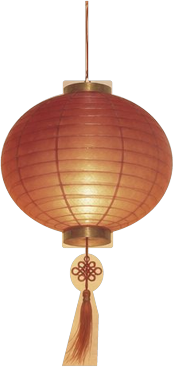
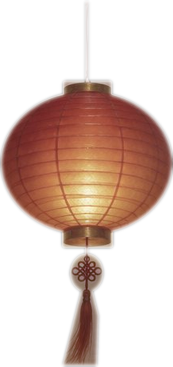
Lanterns blend into the scene; opening lantern dissolves in grain
- Lantern layer: feathered edges and a night-toned rim so only its lit
  heart stays warm (make_night.py); a soft bloom around the opening
  lantern.
- The opening lantern flares toward white, then breaks apart into
  grain with the sheet instead of fading as a cutout.

Claude-Session: https://claude.ai/code/session_01VMC75dovcyg8xHeWok5tKD

Changed region(s): [[0.0, 0.0, 1.0, 1.0]]

diff --git a/index.html b/index.html
@@ -150,7 +150,7 @@ form.signup { display: flex; width: min(460px, 100%); padding: 0; gap: 0; backgr
 .portal-paper.gl { background: transparent; }
 .portal-art { position: absolute; inset: 0; will-change: opacity; }
 .portal-lantern { position: absolute; left: 50%; top: 50%; width: calc(var(--fw, 340px) * .5); translate: -50% -46%; will-change: transform, opacity; }
-.portal-lantern .lamp { position: relative; display: block; width: 100%; height: auto; transform-origin: 50% 0; animation: sway 4s ease-in-out infinite alternate; }
+.portal-lantern .lamp { position: relative; display: block; width: 100%; height: auto; transform-origin: 50% 0; animation: sway 4s ease-in-out infinite alternate; filter: drop-shadow(0 0 14px rgba(255, 176, 96, .55)) drop-shadow(0 0 46px rgba(255, 140, 60, .3)); }
 .portal-lantern .glow { position: absolute; left: 50%; top: 44%; width: 340%; height: auto; max-width: none; translate: -50% -50%; opacity: .85; will-change: opacity, transform; }
 @keyframes sway { from { transform: rotate(-2.5deg); } to { transform: rotate(2.5deg); } }
 .portal-text { position: absolute; inset: 0; will-change: opacity; }
@@ -385,6 +385,14 @@ input:focus, textarea:focus { outline: none; border-color: var(--ink); }
       <div class="portal-globe"><svg viewBox="0 0 100 100" style="animation-delay: -0s"><ellipse cx="50" cy="50" rx="49.9" ry="49.9"></ellipse></svg><svg viewBox="0 0 100 100" style="animation-delay: -4s"><ellipse cx="50" cy="50" rx="49.9" ry="49.9"></ellipse></svg><svg viewBox="0 0 100 100" style="animation-delay: -8s"><ellipse cx="50" cy="50" rx="49.9" ry="49.9"></ellipse></svg><svg viewBox="0 0 100 100" style="animation-delay: -12s"><ellipse cx="50" cy="50" rx="49.9" ry="49.9"></ellipse></svg><svg viewBox="0 0 100 100" style="animation-delay: -16s"><ellipse cx="50" cy="50" rx="49.9" ry="49.9"></ellipse></svg><svg viewBox="0 0 100 100" style="animation-delay: -20s"><ellipse cx="50" cy="50" rx="49.9" ry="49.9"></ellipse></svg></div>
       <svg class="portal-rays" viewBox="0 0 100 100"><line x1="50" y1="0" x2="50" y2="9" transform="rotate(0 50 50)"></line><line x1="50" y1="0" x2="50" y2="9" transform="rotate(15 50 50)"></line><line x1="50" y1="0" x2="50" y2="9" transform="rotate(30 50 50)"></line><line x1="50" y1="0" x2="50" y2="9" transform="rotate(45 50 50)"></line><line x1="50" y1="0" x2="50" y2="9" transform="rotate(60 50 50)"></line><line x1="50" y1="0" x2="50" y2="9" transform="rotate(75 50 50)"></line><line x1="50" y1="0" x2="50" y2="9" transform="rotate(90 50 50)"></line><line x1="50" y1="0" x2="50" y2="9" transform="rotate(105 50 50)"></line><line x1="50" y1="0" x2="50" y2="9" transform="rotate(120 50 50)"></line><line x1="50" y1="0" x2="50" y2="9" transform="rotate(135 50 50)"></line><line x1="50" y1="0" x2="50" y2="9" transform="rotate(150 50 50)"></line><line x1="50" y1="0" x2="50" y2="9" transform="rotate(165 50 50)"></line><line x1="50" y1="0" x2="50" y2="9" transform="rotate(180 50 50)"></line><line x1="50" y1="0" x2="50" y2="9" transform="rotate(195 50 50)"></line><line x1="50" y1="0" x2="50" y2="9" transform="rotate(210 50 50)"></line><line x1="50" y1="0" x2="50" y2="9" transform="rotate(225 50 50)"></line><line x1="50" y1="0" x2="50" y2="9" transform="rotate(240 50 50)"></line><line x1="50" y1="0" x2="50" y2="9" transform="rotate(255 50 50)"></line><line x1="50" y1="0" x2="50" y2="9" transform="rotate(270 50 50)"></line><line x1="50" y1="0" x2="50" y2="9" transform="rotate(285 50 50)"></line><line x1="50" y1="0" x2="50" y2="9" transform="rotate(300 50 50)"></line><line x1="50" y1="0" x2="50" y2="9" transform="rotate(315 50 50)"></line><line x1="50" y1="0" x2="50" y2="9" transform="rotate(330 50 50)"></line><line x1="50" y1="0" x2="50" y2="9" transform="rotate(345 50 50)"></line></svg>
       </div>
+      <svg width="0" height="0" style="position:absolute">
+        <filter id="lantern-grain" x="-60%" y="-60%" width="220%" height="220%" color-interpolation-filters="sRGB">
+          <feTurbulence type="fractalNoise" baseFrequency="1.4" numOctaves="1" seed="7" result="noise"></feTurbulence>
+          <feColorMatrix in="noise" type="matrix" values="0 0 0 0 0  0 0 0 0 0  0 0 0 0 0  1 0 0 0 0" result="grain"></feColorMatrix>
+          <feComponentTransfer in="grain" result="mask"><feFuncA id="lantern-grain-a" type="linear" slope="30" intercept="1"></feFuncA></feComponentTransfer>
+          <feComposite in="SourceGraphic" in2="mask" operator="in"></feComposite>
+        </filter>
+      </svg>
       <div class="portal-lantern"><img class="glow" src="assets/motion/glow.webp" alt=""><img class="lamp" src="assets/motion/lantern.webp" alt=""></div>
       <div class="portal-text">
         <div class="portal-top wrap"><b>LANTERN</b><a href="#connect" tabindex="-1">Contact</a></div>
@@ -438,7 +446,7 @@ input:focus, textarea:focus { outline: none; border-color: var(--ink); }
     var stage = hero.parentElement, portal = hero.querySelector(".portal");
     var paper = hero.querySelector(".portal-paper"), art = hero.querySelector(".portal-art");
     var words = hero.querySelector(".portal-text"), lantern = hero.querySelector(".portal-lantern"), glow = lantern.querySelector(".glow"), lamp = lantern.querySelector(".lamp");
-    var root = document.documentElement;
+    var root = document.documentElement, grainA = document.getElementById("lantern-grain-a");
     stage.classList.add("portal-on");
     window.LANTERN_LIGHT = 0; // the landing's lantern lights as the sheet dissolves
     var burn = makeBurn(paper);
@@ -462,8 +470,12 @@ input:focus, textarea:focus { outline: none; border-color: var(--ink); }
       // the lantern flares as the dissolve takes hold, then melts into the scene
       var flare = Math.sin(Math.PI * clamp(b / 0.45));
       lantern.style.transform = "scale(" + (1 + 0.35 * clamp(b / 0.3)) + ")";
-      lantern.style.opacity = 1 - clamp((b - 0.14) / 0.22);
-      lamp.style.filter = "brightness(" + (1 + flare * 0.6) + ")";
+      // it flares toward white, then breaks apart into grain like the sheet
+      var g = clamp((b - 0.12) / 0.26);
+      lantern.style.filter = g > 0 ? "url(#lantern-grain)" : "none";
+      grainA.setAttribute("intercept", 1 - g * 24);
+      lantern.style.opacity = g >= 1 ? 0 : 1;
+      lamp.style.filter = "brightness(" + (1 + flare * 1.1) + ") saturate(" + (1 - flare * 0.35) + ") drop-shadow(0 0 14px rgba(255,176,96,.55)) drop-shadow(0 0 46px rgba(255,140,60,.3))";
       glow.style.opacity = Math.min(1, 0.85 + flare * 0.6);
       glow.style.transform = "scale(" + (1 + flare * 0.8) + ")";
       window.LANTERN_LIGHT = clamp(b / 0.6);

diff --git a/motion/make_night.py b/motion/make_night.py
@@ -27,3 +27,19 @@ ang = np.array(Image.open(f"{D}/angel-full.png").convert("RGBA")).astype(np.floa
 ang[..., :3] *= np.array([0.80, 0.84, 0.92])
 Image.fromarray(np.clip(ang, 0, 255).astype(np.uint8)).save(f"{D}/angel-full.png")
 print("night written")
+
+# lantern: feathered edges and a night-toned rim, so it glows in the scene instead of
+# looking cut out; its lit centre stays warm
+lan = Image.open(f"{D}/lantern.png").convert("RGBA")
+A = lan.getchannel("A").filter(ImageFilter.MinFilter(3)).filter(ImageFilter.GaussianBlur(1.6))
+arr = np.array(lan).astype(np.float32)
+h, w = arr.shape[:2]
+cy, cx = 0.44 * h, 0.5 * w                                   # lantern body centre within the crop
+yy, xx = np.mgrid[0:h, 0:w]
+r = np.sqrt(((xx - cx) / (0.5 * w)) ** 2 + ((yy - cy) / (0.3 * h)) ** 2)
+rim = np.clip((r - 0.45) / 0.6, 0, 1)[..., None]              # 0 in the lit heart, 1 at the edges
+night_tint = np.array([0.62, 0.62, 0.78])
+arr[..., :3] = arr[..., :3] * (1 - rim * (1 - night_tint))
+arr[..., 3] = np.array(A).astype(np.float32)
+Image.fromarray(np.clip(arr, 0, 255).astype(np.uint8)).save(f"{D}/lantern.png")
+print("lantern blended")
